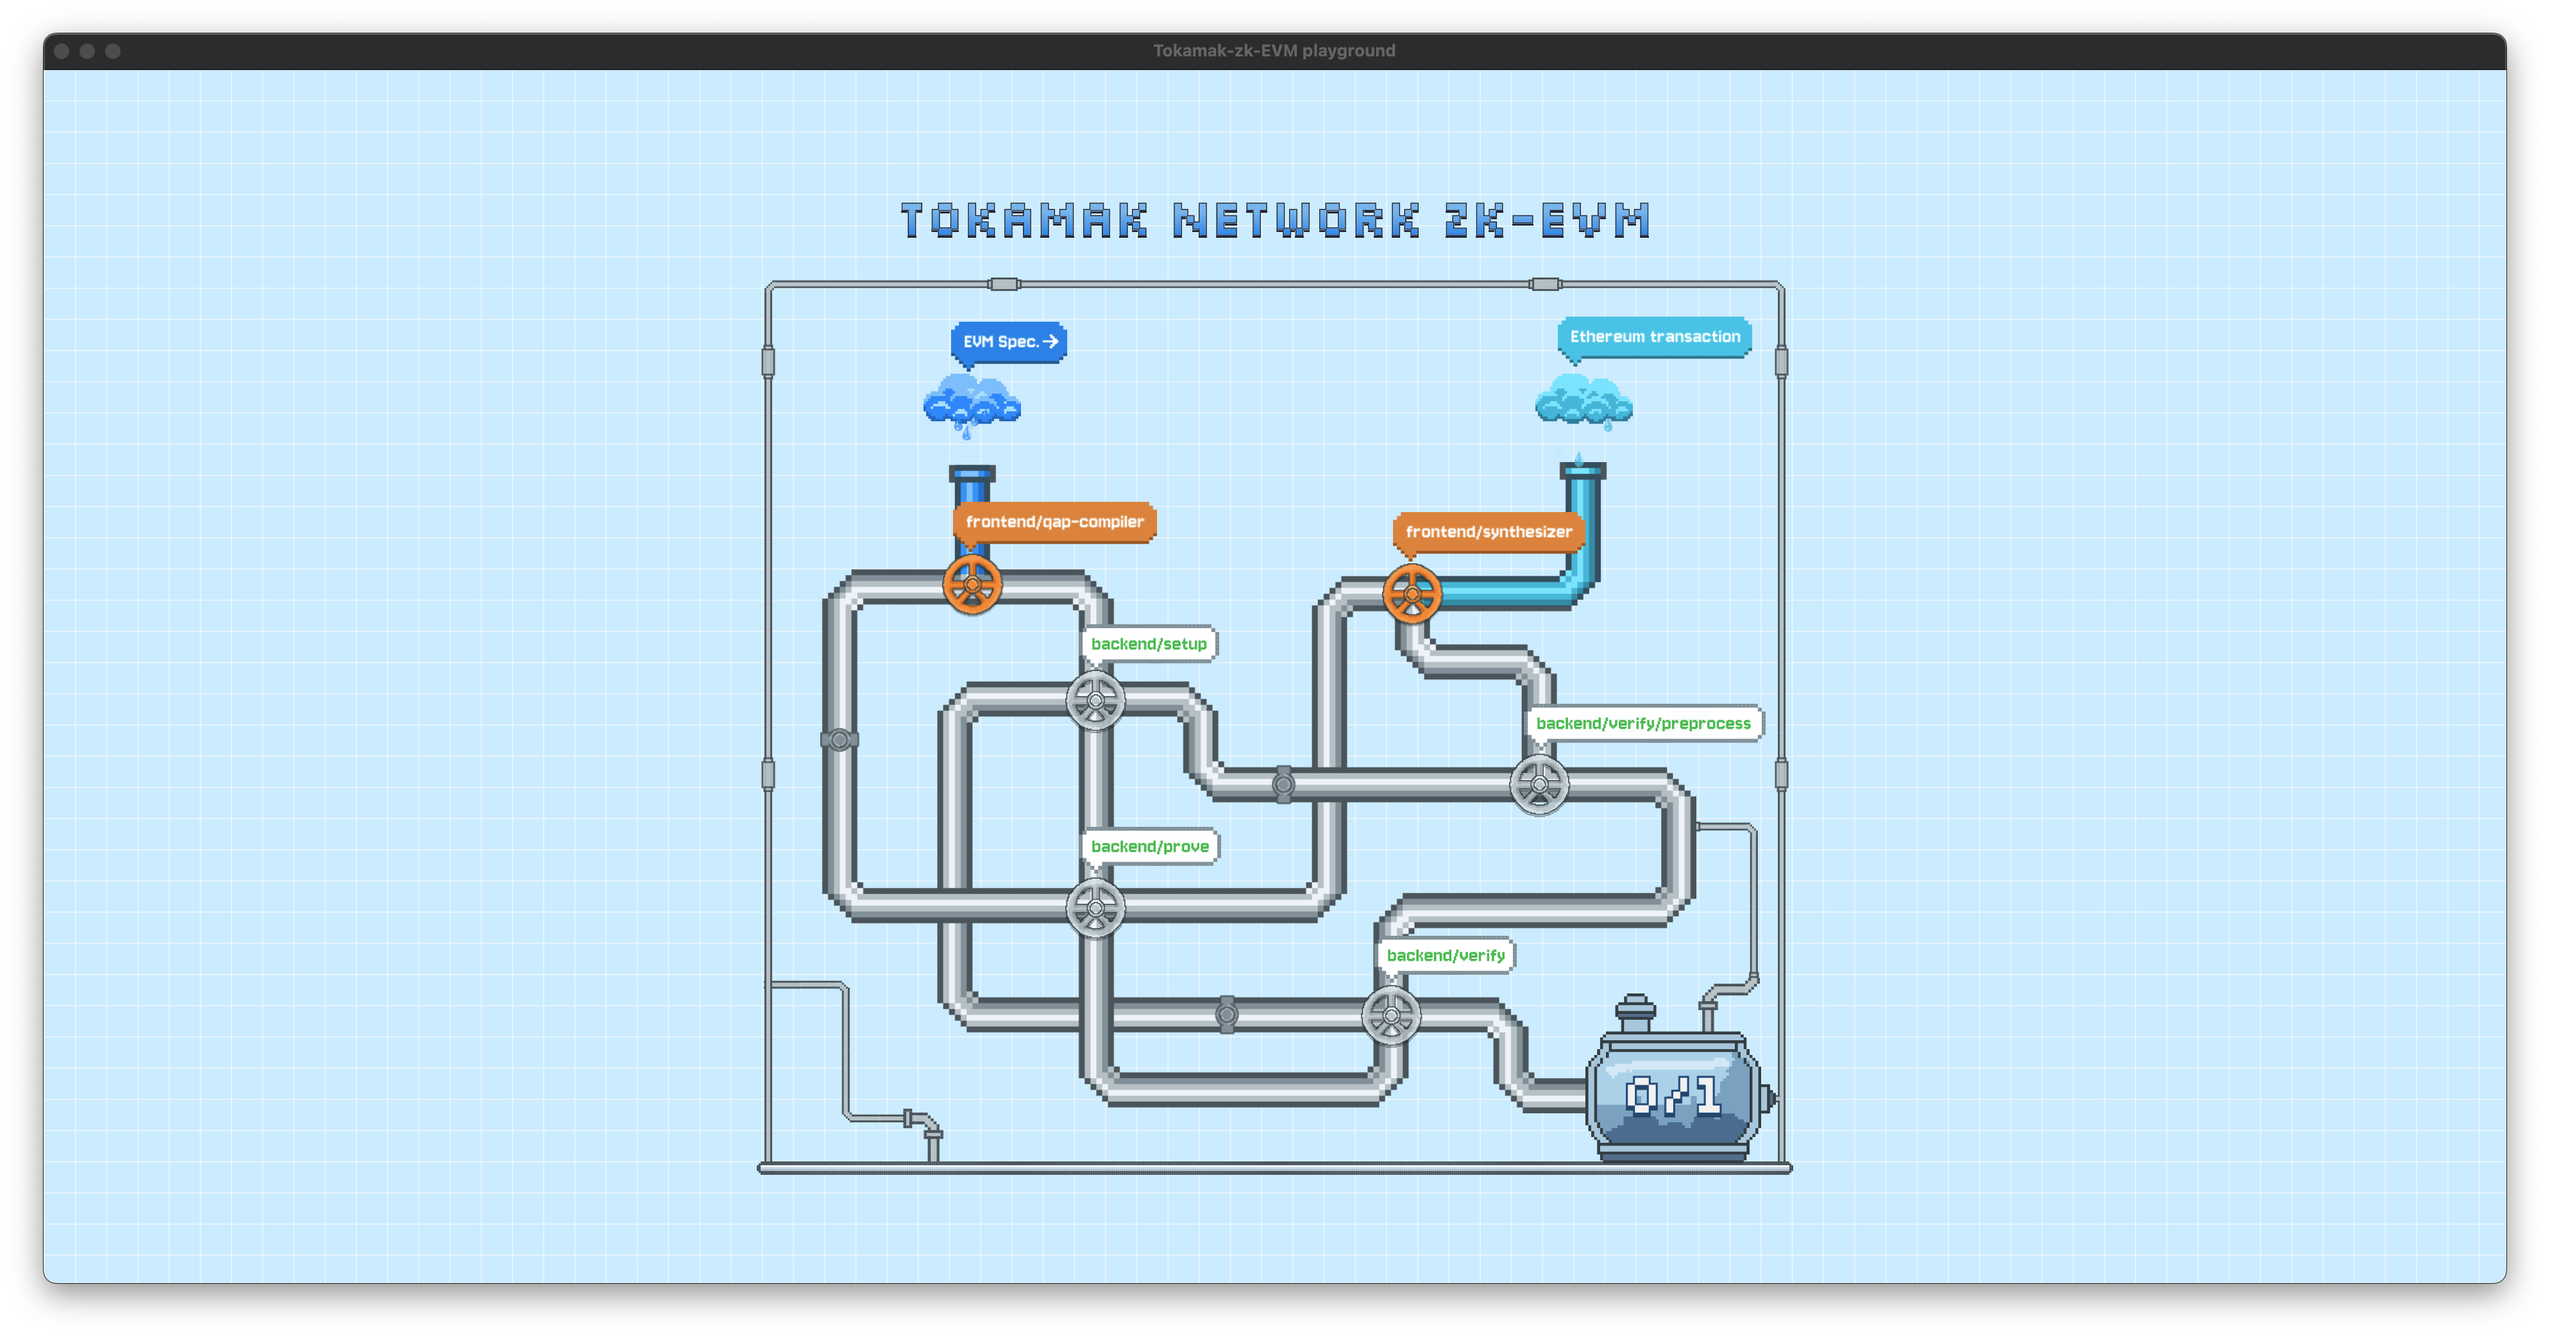
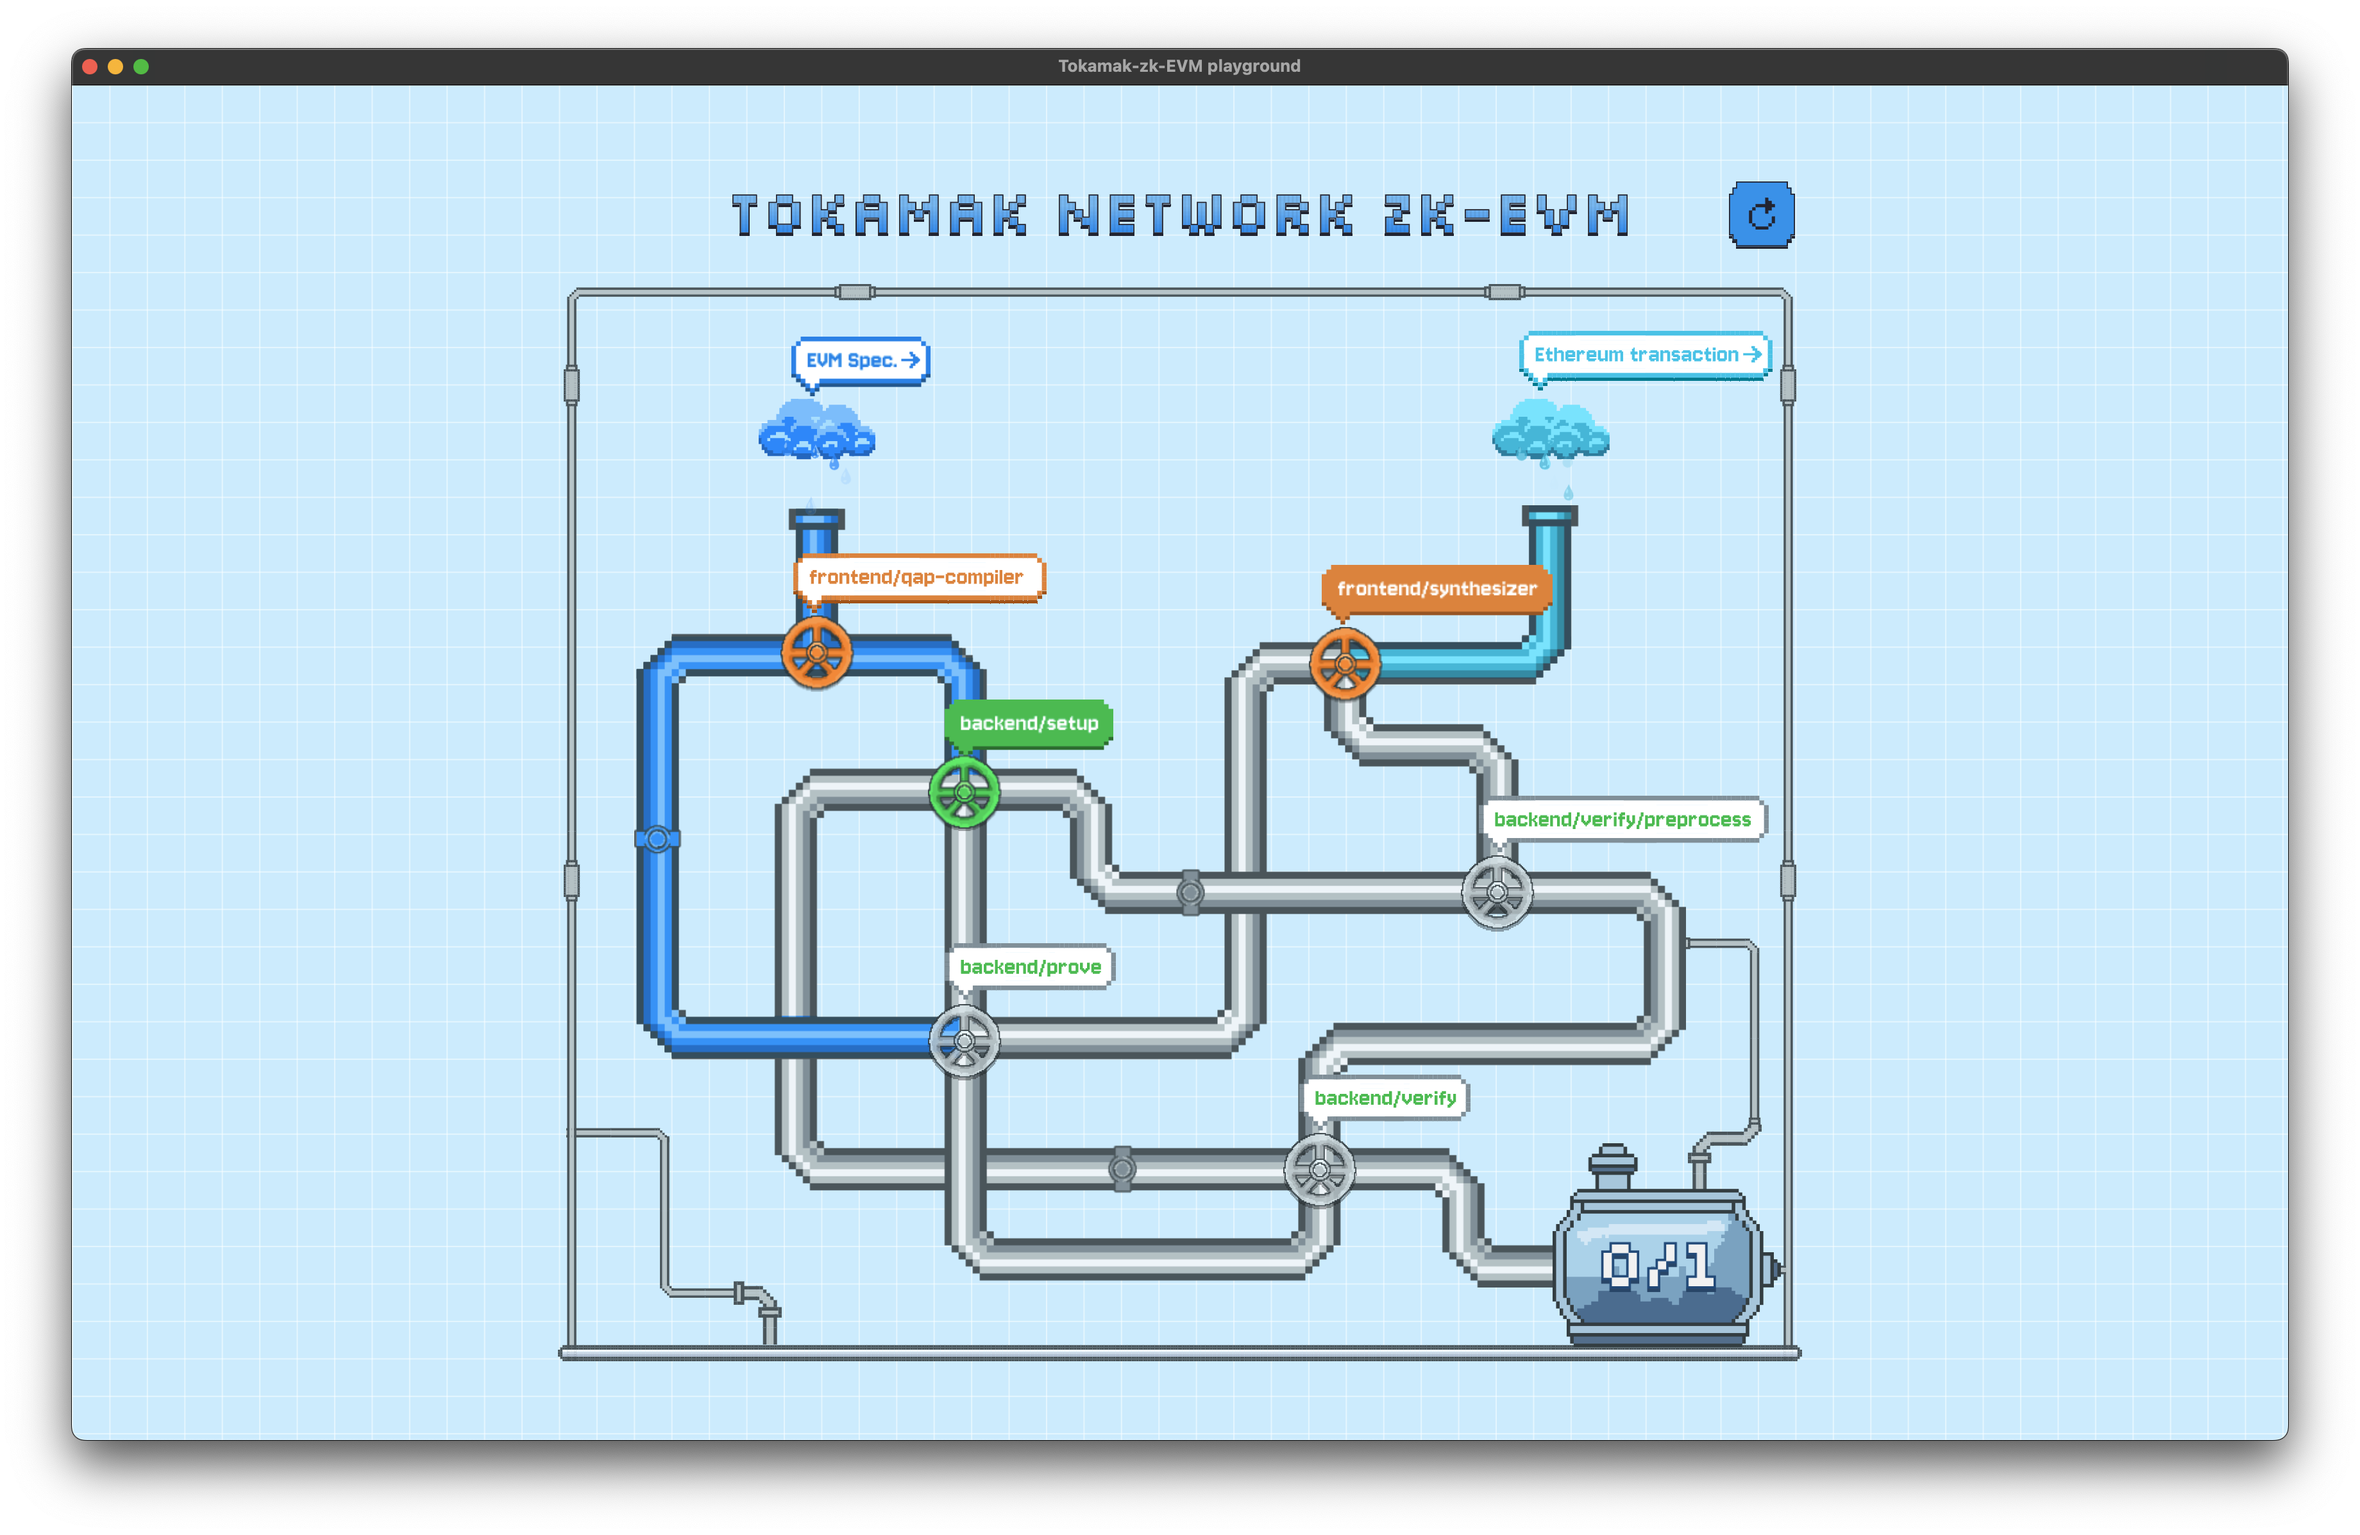
docs: update readme

Changed region(s): [[0.2188, 0.0935, 0.7812, 0.9036], [0.0, 0.0, 1.0, 0.966]]

diff --git a/packages/playground-hub/src/constants/index.ts b/packages/playground-hub/src/constants/index.ts
@@ -10,7 +10,7 @@ export const DOCKER_CONFIGS = {
     tag: "mac-arm",
     downloadUrl:
       "https://pub-30801471f84a46049e31eea6c3395e00.r2.dev/docker-images/tokamak-zk-evm_mac-arm.tar.gz",
-    fileName: "tokamak-zk-evm-mac-arm.gz",
+    fileName: "tokamak-zk-evm_mac-arm.tar.gz",
   },
   "windows-cpu": {
     tag: "windows-cpu-setup-completed",

diff --git a/packages/playground-hub/README.md b/packages/playground-hub/README.md
@@ -170,21 +170,21 @@ Hello! This document guides you on how to install and run **Tokamak-zk-evm-playg
    ![Program Initial Screen](./assets/images/5-4.png)
 5. After clicking, the modal will automatically close, and an animation filling the pipeline will start. The animation will stop when it reaches the handle for the next step, and the previously inactive **frontend/qap-compiler** heading will become colored, indicating it is ready for execution.
    ![Program Initial Screen](./assets/images/5-5.png)
-6. Let's set up the EVM Transaction in the same flow. Similar to the EVM Spec, click the cloud under the **Ethereum transaction** heading to open a modal. In this modal's input area, you need to enter the hash of an Ethereum transaction that matches the characteristics supported by the previously selected EVM Spec. Go to the [Etherscan page](https://etherscan.io/).
+6. Once you click on the activated **frontend/qap-compiler** handle and the process has finished, you will see that **backend/setup** is activated. Next, let's run Ethereum transaction.
+   ![Program Initial Screen](./assets/images/5-13.png)
+7. Let's set up the EVM Transaction in the same flow. Similar to the EVM Spec, click the cloud under the **Ethereum transaction** heading to open a modal. In this modal's input area, you need to enter the hash of an Ethereum transaction that matches the characteristics supported by the previously selected EVM Spec. Go to the [Etherscan page](https://etherscan.io/).
    ![Program Initial Screen](./assets/images/5-6.png)
-7. Find a transaction you want to verify through the Tokamak-zk-EVM and copy its hash value using the copy button next to the Transaction Hash.
+8. Find a transaction you want to verify through the Tokamak-zk-EVM and copy its hash value using the copy button next to the Transaction Hash.
    ![Program Initial Screen](./assets/images/5-9.png)
-8. Paste the copied hash value into the modal's input area. If the transaction hash is provable by the current Tokamak-zk-EVM, the Input button will be activated as follows.
+9. Paste the copied hash value into the modal's input area. If the transaction hash is provable by the current Tokamak-zk-EVM, the Input button will be activated as follows.
    ![Program Initial Screen](./assets/images/5-10.png)
-   8-1. If the copied hash value is incorrect, an error like this will appear, and the Input button will not be activated. For any other issues, the button will also remain inactive, and a message corresponding to the problem will be displayed in the same area.  
-   ![Program Initial Screen](./assets/images/5-11.png)
-9. When the Input button is activated, click it to close the modal, and an animation similar to the previous one will start. Once the animation is complete, you will see that the handles for both frontend/qap-compiler and frontend/synthesizer are activated. You can execute the activated handles in any order. In this guide, we will execute qap-compiler first.
-   ![Program Initial Screen](./assets/images/5-12.png)
-10. Once frontend/qap-compiler has finished, you will see that both **frontend/synthesizer** and **backend/setup** are activated. Next, let's run frontend/synthesizer. (For processes that take some time to execute, a loading modal like the one below will appear. When the process is complete, the modal will automatically close, and the animation will continue.)
-    ![Program Initial Screen](./assets/images/5-13.png)
-    ![Program Loading Screen](./assets/images/5-13-1.png)
+
+10. When the Input button is activated, click it to close the modal, and an animation similar to the previous one will start. Once the animation is complete, you will see that the handles for both backend/setup and frontend/synthesizer are activated. You can execute the activated handles in any order. In this guide, we will execute synthesizer first.
+    ![Program Initial Screen](./assets/images/5-12.png)
 11. After frontend/synthesizer finishes, you can infer from the pipelines that **backend/setup** must also be completed. Let's proceed with the only activated part, backend/setup.
+    ![Program Loading Screen](./assets/images/5-14-1.png)
     ![Program Initial Screen](./assets/images/5-14.png)
+
 12. Once backend/setup is complete, **backend/prove** is activated. The actual setup process takes a considerable amount of time, but it is already complete within the Docker image you downloaded earlier. Therefore, it runs very quickly inside the playground.
     ![Program Initial Screen](./assets/images/5-15.png)
 13. Once backend/setup is complete, both packages required for the final action, Verify, are ready for execution. First, run backend/preprocess.
